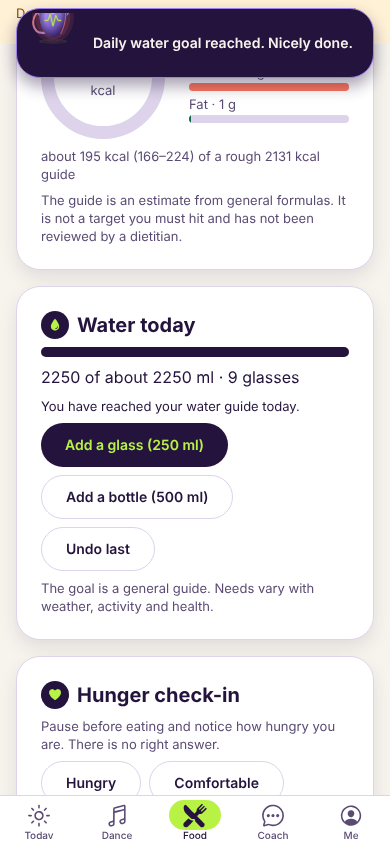
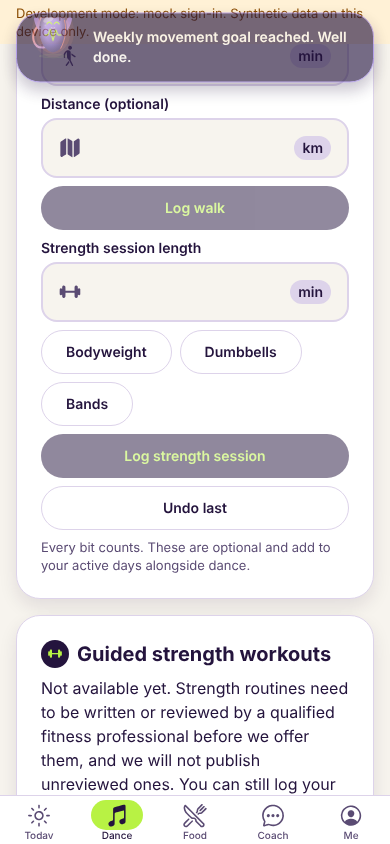
Celebrations v2 docs, preview and verification
Claude-Session: https://claude.ai/code/session_01UHrr7iZEB2xxrvAy7g6zhZ

diff --git a/docs/PULSE_CELEBRATIONS.md b/docs/PULSE_CELEBRATIONS.md
@@ -1,34 +1,46 @@
 # Pulse celebrations (daily, weekly, monthly, yearly)
 
-Approved feature. Built on the existing animated Pulse moment system (`apps/mobile/src/pulse`: the `celebrate` state, `MomentHost`, haptics, reduced motion). It does **not** use generic badges or static banners.
+Approved feature. Built on the existing animated Pulse moment system (`apps/mobile/src/pulse`: the `celebrate` and `encourage` states, `MomentHost`, haptics, reduced motion). It does **not** use generic badges or static banners.
 
-## What is celebrated
+## Goals are the person's own
 
-All from the person's own records and the goals they set. Pure logic: `packages/shared/src/celebrations.ts`.
+There are **no built-in thresholds**. Pure logic: `packages/shared/src/celebrations.ts`. A period with no configured goal is never celebrated. Everything is set in Goals, "Your focus" and "Pulse celebrations":
 
-| Period  | Achievement                                                                  | Needs                                |
-| ------- | ---------------------------------------------------------------------------- | ------------------------------------ |
-| Daily   | Water goal reached (their own goal, or the general guide)                    | logged water                         |
-| Daily   | Every active habit ticked                                                    | at least one habit                   |
-| Daily   | Moved today: 10 minutes or more of dance, walking and strength together      | recorded movement                    |
-| Weekly  | Weekly movement-minutes goal reached (Monday week, dance + walks + strength) | the person's own weekly minutes goal |
-| Monthly | Weekly goal met in at least 3 weeks that start in the month                  | the same weekly goal                 |
-| Yearly  | Weekly goal met in at least 26 weeks that start in the year                  | the same weekly goal                 |
+| Period  | Achievement                                                | Goal the person configures                                 |
+| ------- | ---------------------------------------------------------- | ---------------------------------------------------------- |
+| Daily   | Water goal reached                                         | Daily water goal (ml). The general guide is not celebrated |
+| Daily   | Movement goal reached (dance + walking + strength minutes) | Daily movement goal (minutes)                              |
+| Daily   | Every active habit ticked                                  | their own habits                                           |
+| Weekly  | Weekly movement-minutes goal reached (Monday week)         | Minutes a week                                             |
+| Monthly | Weekly goal reached in N weeks that start in the month     | Weeks a month (1 to 5); needs the weekly goal              |
+| Yearly  | Weekly goal reached in N weeks that start in the year      | Weeks a year (1 to 53); needs the weekly goal              |
 
-The monthly and yearly thresholds and the 10-minute daily bar are **provisional defaults**, all in one object (`CELEBRATION_RULES`), pending owner approval of the goal model. Existing challenge celebrations are unchanged and not duplicated.
+Weight, calories, measurements and any food number are never celebrated, and weight-loss or calorie-restriction goals have no celebration at all. A missed day, week or goal is never mentioned.
 
-## Rules it follows
+## Intensity (a preference, synced with the other preferences)
 
-- Real data only; nothing is estimated, and nothing is celebrated from nothing.
-- **Once per achievement.** Each has a stable id (`daily:water:2026-06-17`). A per-person ledger on the device is written _before_ anything is shown, so re-renders, retries and quick successive changes cannot repeat it. Deleting a log and re-adding it does not celebrate again.
-- **No retroactive flood.** The first run on a device only records what is already achieved. A corrupt ledger behaves the same way.
-- One Pulse moment at a time; if several are earned together they are shown biggest period first, spaced out, at most three per evaluation.
-- Never celebrates weight, calories, measurements or any food number, and never mentions a missed day, a streak or a shortfall. Weight-goal celebrations are **not** included: they need owner approval and the same safety rules as weight goals (no numbers for eating-concern, pregnancy/postpartum or numbers-off settings).
-- Reduced motion is honored by Pulse itself (the figure does not move); haptics are brief and success-only.
+`off`, `gentle` or `full` (default `full`, the approved animated experience):
 
-## Known limits (follow-ups)
+- **Full:** the animated Pulse celebration with a brief haptic.
+- **Gentle:** the same Pulse in its calm `encourage` state with the message, no haptic.
+- **Off:** nothing is shown. Goals reached while off are still remembered as handled, so turning celebrations back on never replays them.
+- Reduced motion is honored by Pulse itself (the figure does not move) in every mode.
 
-- The ledger is per device, so a second device can celebrate an achievement the first already showed. A synced ledger would need a new table and migration.
-- There is no separate on/off switch for celebrations yet; it follows the existing reduced-motion setting. A switch in settings is a small follow-up.
-- Monthly and yearly celebrations need the person to have set a weekly movement goal (Goals, "Your focus").
-- Weight-goal and body-measurement celebrations are intentionally absent.
+## Once per achievement, on every device
+
+Each achievement has a stable id (`daily:water:2026-06-17`, `weekly:movement_minutes:2026-06-15`, `monthly:movement_weeks:2026-06`, `yearly:movement_weeks:2026`) that does **not** include the goal value, so editing a goal cannot earn the same period's achievement twice. The runner (`apps/mobile/src/celebrations/run.ts`):
+
+1. reads the device ledger and the synced ledger and uses their **union**, so a second or restored device sees what was already handled;
+2. treats a brand-new ledger (nothing local, nothing synced) as "record what is already achieved, celebrate nothing retroactively";
+3. writes what it handled to the device and then to the synced ledger **before** anything is shown, so a refresh, retry or quick successive change cannot repeat it;
+4. falls back to the device ledger if the synced one is unreachable, and uploads what only the device knows next time, with duplicates ignored.
+
+The synced ledger is the `celebrations` table (migration `20261212000100_celebrations.sql`, **prepared, not applied to any hosted project**): one insert-only row per achievement (`achievement_id`, `mode`), first writer wins, owner-only under RLS, health-data consent required to write, cascade-deleted with the account, included in the data export. The id format is constrained so it cannot reference weight, calories or food. The mock store mirrors it, so the whole path is testable offline.
+
+Verified: shared engine, runner (restoration, first sync, two devices racing, offline then upload, retries, off then on), mock store, Supabase adapter, SQL (RLS, consent, first-write-wins, no forging or rewriting, id and mode checks, isolation, deletion cascade), and the browser (no celebration without a goal, no retroactive celebration, Off shows nothing and does not replay, a weekly goal reached after it was set celebrates once).
+
+## Known limits
+
+- Two devices that handle the very same new achievement at the same instant, before either has synced, can both show it once; the ledger keeps one record.
+- Until the migration is applied, the ledger is device-only (the app handles an unreachable or missing synced ledger).
+- Weight-goal and body-measurement celebrations are intentionally absent; adding them needs owner approval and the same safety rules as weight goals.

diff --git a/docs/SECURITY_DEFINER_REVIEW.md b/docs/SECURITY_DEFINER_REVIEW.md
@@ -45,5 +45,6 @@ Only the migrations listed as `pending` in `supabase/hosted-history.json` (files
 2. `20261208000100_household.sql`: five tables, helper functions in `app`, five RPCs in `public`, one trigger.
 3. `20261209000100_wellness.sql`: `wellness_entries`, `wellness_prefs`.
 4. `20261211000100_household_join_limit.sql`: `household_join_attempts`; replaces `household_join` in place (see above).
+5. `20261212000100_celebrations.sql`: `celebrations`; no functions, nothing `SECURITY DEFINER`.
 
-No existing table or data is altered or dropped; the only replaced object is `household_join` (same signature, owner, search path and grants). Verified locally: clean database (all 15 SQL test files), and a replica of the hosted eight-migration state with only these applied on top (`bash supabase/tests/replica.sh`: the replica first matches the hosted catalog fingerprint, the result equals a clean build of all 12 migrations, and all SQL tests pass on it).
+No existing table or data is altered or dropped; the only replaced object is `household_join` (same signature, owner, search path and grants). Verified locally: clean database (all 15 SQL test files), and a replica of the hosted eight-migration state with only these applied on top (`bash supabase/tests/replica.sh`: the replica first matches the hosted catalog fingerprint, the result equals a clean build of all 13 migrations, and all SQL tests pass on it).

diff --git a/docs/LIVE_VERIFICATION.md b/docs/LIVE_VERIFICATION.md
@@ -34,6 +34,7 @@ Order and contents:
 2. `20261208000100_household.sql`: five household tables, membership helper functions, five RPCs.
 3. `20261209000100_wellness.sql`: `wellness_entries`, `wellness_prefs`.
 4. `20261211000100_household_join_limit.sql`: `household_join_attempts` and an in-place replacement of `household_join` (adds the invite attempt limit; see `docs/SECURITY_DEFINER_REVIEW.md`). The only migration that replaces an existing function; same signature, owner, search path and grants.
+5. `20261212000100_celebrations.sql`: `celebrations`, the Pulse shown-state ledger (insert-only, owner-only, consent-gated; additive).
 
 Before: take a database backup or a Supabase branch if available (the project has no user data, so this is a precaution); re-run the fingerprint query (below) and confirm it still matches.
 Apply (needs explicit owner approval): one migration at a time, in the order above, as a named migration with the exact repository SQL, stopping at the first error.
